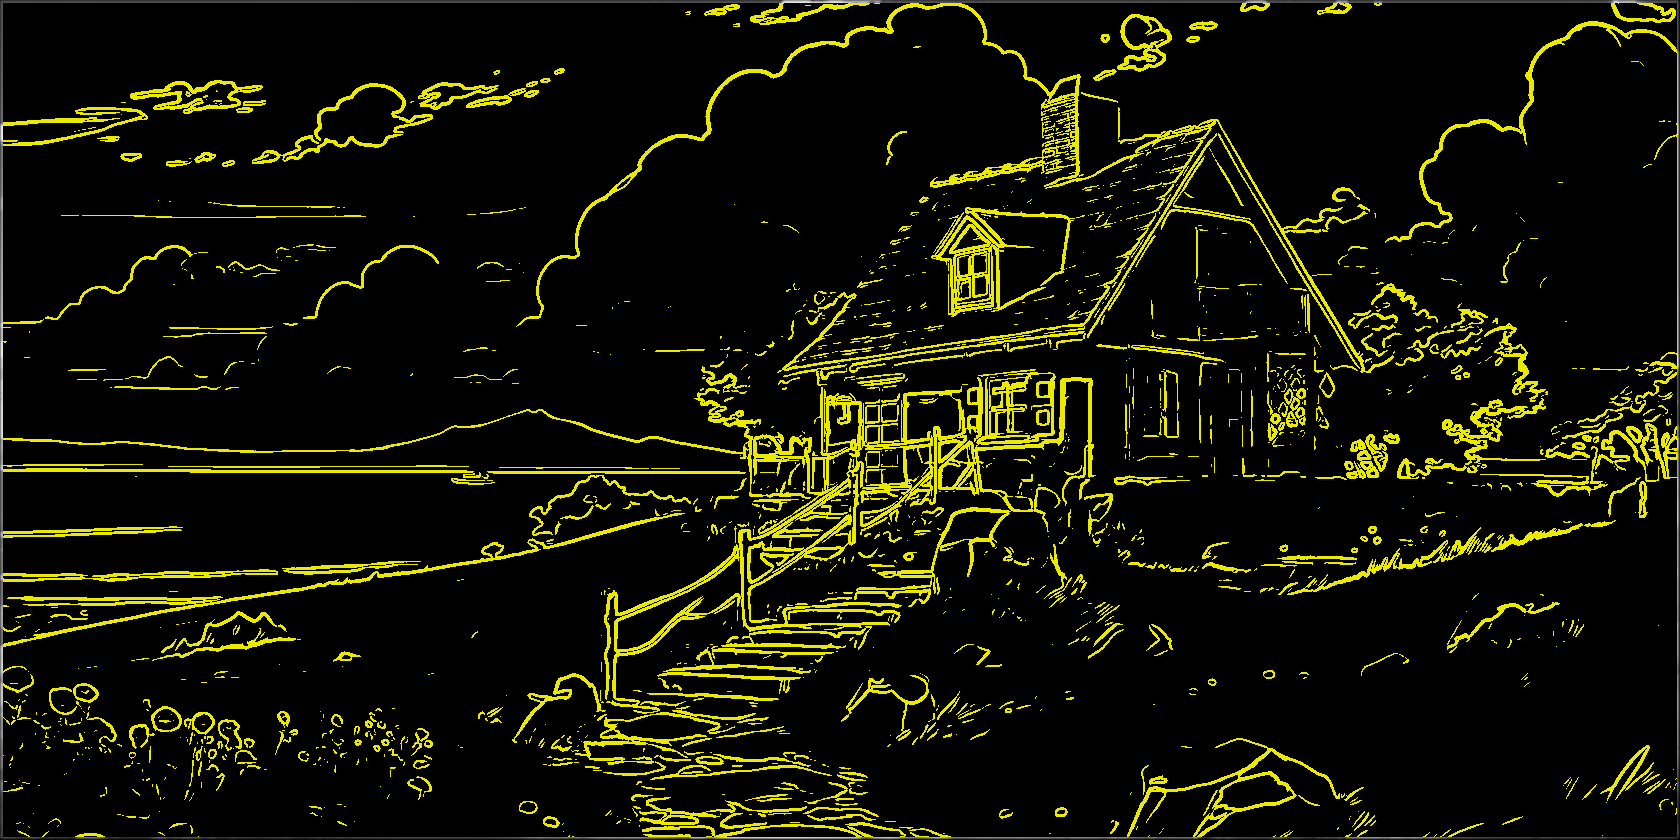
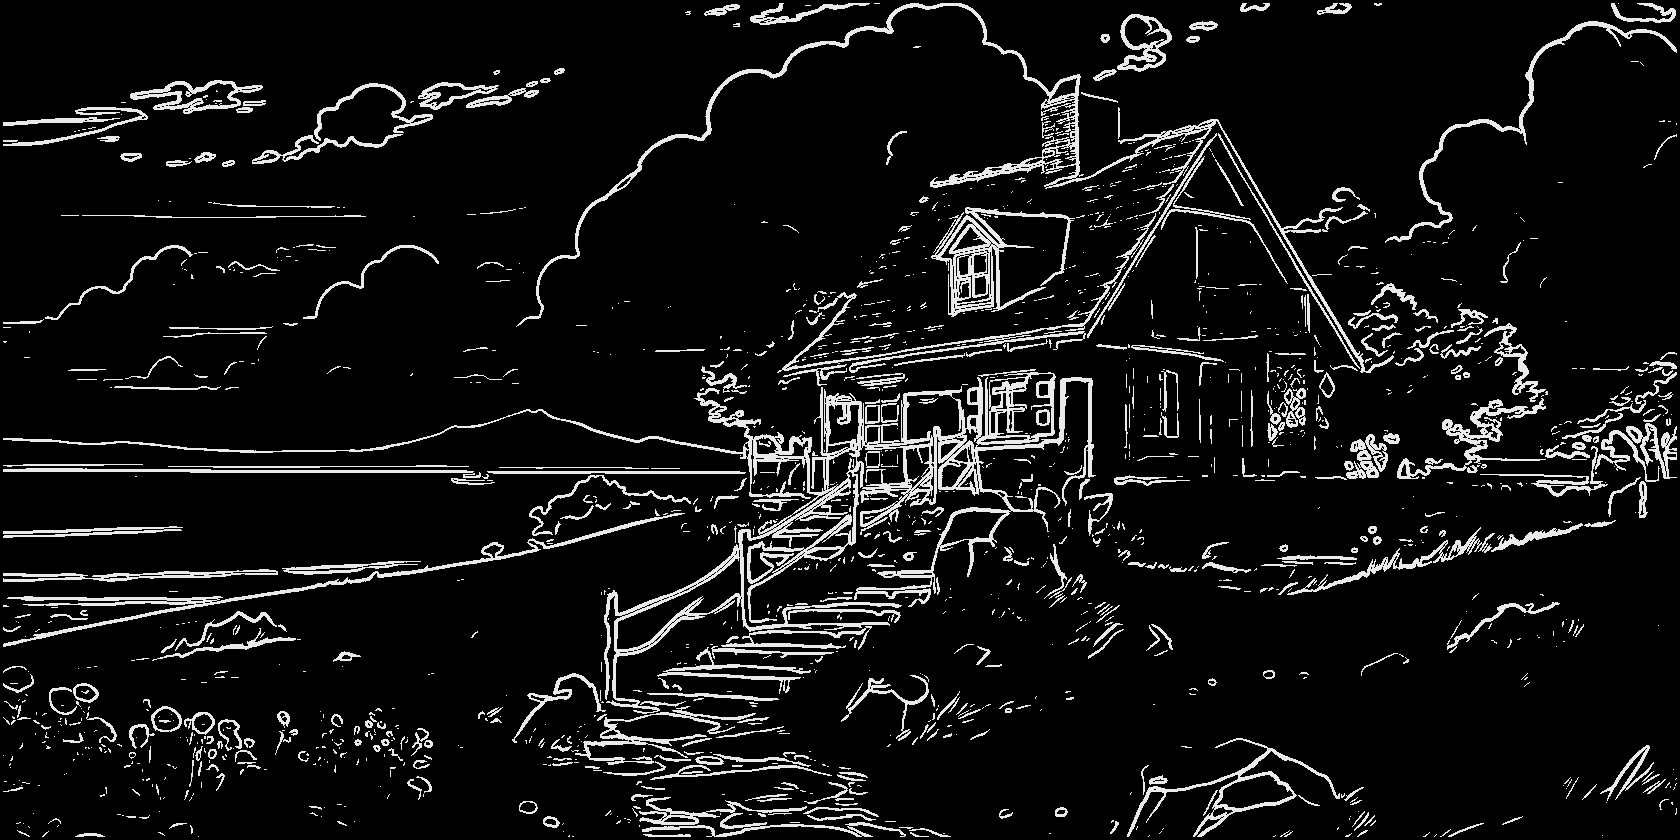
refactor

diff --git a/src/main.rs b/src/main.rs
@@ -1,4 +1,7 @@
+use core::panic;
 use std::{cmp::min, ops::Div};
+
+use image::GenericImageView;
 
 type Buffer = image::ImageBuffer<image::Rgba<u8>, Vec<u8>>;
 type Kernel = Vec<Vec<f64>>;
@@ -24,7 +27,7 @@ fn main() {
     let buffer = image_to_buffer(img);
     let buffer = luminance_gray_scale(buffer);
     let buffer = naive_convolution(buffer, generate_blur_kernel_naive(1., 3));
-    let edge_detected = naive_edge_detection_sobel(&buffer);
+    let edge_detected = naive_edge_detection_sobel(&buffer, &original);
 
     let _ = edge_detected.save("./src/edge_detection.png");
 }
@@ -75,9 +78,9 @@ fn naive_gray_scale(mut buffer: Buffer) -> Buffer {
     buffer
 }
 
-fn edge_detection_canny_naive() {}
+fn edge_detection_canny_naive() {>}
 
-fn naive_edge_detection_sobel(buffer: &Buffer) -> Buffer {
+fn naive_edge_detection_sobel(buffer: &Buffer, original: &image::DynamicImage) -> Buffer {
     let horizontal_kernel = [vec![1., 2., 1.], vec![0., 0., 0.], vec![-1., -2., -1.]];
     let vertical_kernel = [vec![1., 0., -1.], vec![2., 0., -2.], vec![1., 0., -1.]];
     let kernel_dimension = get_dimension(&horizontal_kernel);
@@ -86,37 +89,55 @@ fn naive_edge_detection_sobel(buffer: &Buffer) -> Buffer {
     //TODO: dimension check. should be odd
 
     let padding = 3;
-    for pixel_y in padding..buffer.height() - padding {
-        for pixel_x in padding..buffer.width() - padding {
+    let kernel_middle = kernel_dimension.width.wrapping_div(2);
+    for pixel_y in 0..buffer.height() {
+        for pixel_x in 0..buffer.width() {
             let mut horizontal_gradient: f64 = 0.;
             let mut vertical_gradient: f64 = 0.;
 
+            if pixel_y < padding
+                || pixel_y >= buffer.height() - padding
+                || pixel_x < padding
+                || pixel_x >= buffer.width() - padding
+            {
+                let pixel = new_buffer.get_pixel_mut(pixel_x, pixel_y);
+                pixel.0[0] = 0;
+                pixel.0[1] = 0;
+                pixel.0[2] = 0;
+
+                // let original_pixel = original.get_pixel(pixel_x, pixel_y);
+                // pixel.0[0] = original_pixel.0[0];
+                // pixel.0[1] = original_pixel.0[1];
+                // pixel.0[2] = original_pixel.0[2];
+
+                continue;
+            }
+
             for kernel_y in 0..kernel_dimension.height {
                 for kernel_x in 0..kernel_dimension.width {
-                    let kernel_middle = kernel_dimension.width.wrapping_div(2);
-                    let get_y: i64 = pixel_y as i64 + kernel_y as i64;
-                    let get_x: i64 = pixel_x as i64 + kernel_x as i64;
+                    let get_y = pixel_y as usize + kernel_y;
+                    let get_x = pixel_x as usize + kernel_x;
 
-                    if get_y < kernel_middle as i64 || get_y >= buffer.height().into() {
-                        break;
+                    if get_y < kernel_middle || get_y >= buffer.height() as usize {
+                        continue;
                     }
 
-                    if get_x < kernel_middle as i64 || get_x >= buffer.width().into() {
-                        break;
+                    if get_x < kernel_middle || get_x >= buffer.width() as usize {
+                        continue;
                     }
 
-                    let pixel_rgba = buffer
+                    let pixel_value = buffer
                         .get_pixel(
-                            (get_x - kernel_middle as i64) as u32,
-                            (get_y - kernel_middle as i64) as u32,
+                            (get_x - kernel_middle) as u32,
+                            (get_y - kernel_middle) as u32,
                         )
-                        .0;
+                        .0[0] as f64;
 
                     let horizontal_kernel_value = horizontal_kernel[kernel_y][kernel_x];
                     let vertical_kernel_value = vertical_kernel[kernel_y][kernel_x];
 
-                    horizontal_gradient += horizontal_kernel_value * pixel_rgba[0] as f64;
-                    vertical_gradient += vertical_kernel_value * pixel_rgba[0] as f64;
+                    horizontal_gradient += horizontal_kernel_value * pixel_value;
+                    vertical_gradient += vertical_kernel_value * pixel_value;
                 }
             }
 
@@ -126,16 +147,11 @@ fn naive_edge_detection_sobel(buffer: &Buffer) -> Buffer {
             if total_gradient > 90. {
                 pixel.0[0] = 234;
                 pixel.0[1] = 234;
-                pixel.0[2] = 0;
+                pixel.0[2] = 234;
             } else {
                 pixel.0[0] = 0;
                 pixel.0[1] = 0;
                 pixel.0[2] = 0;
-
-                // let original_pixel = buffer.get_pixel(pixel_x, pixel_y);
-                // pixel.0[0] = original_pixel.0[0];
-                // pixecl.0[1] = original_pixel.0[1];
-                // pixel.0[2] = original_pixel.0[2];
             }
         }
     }
